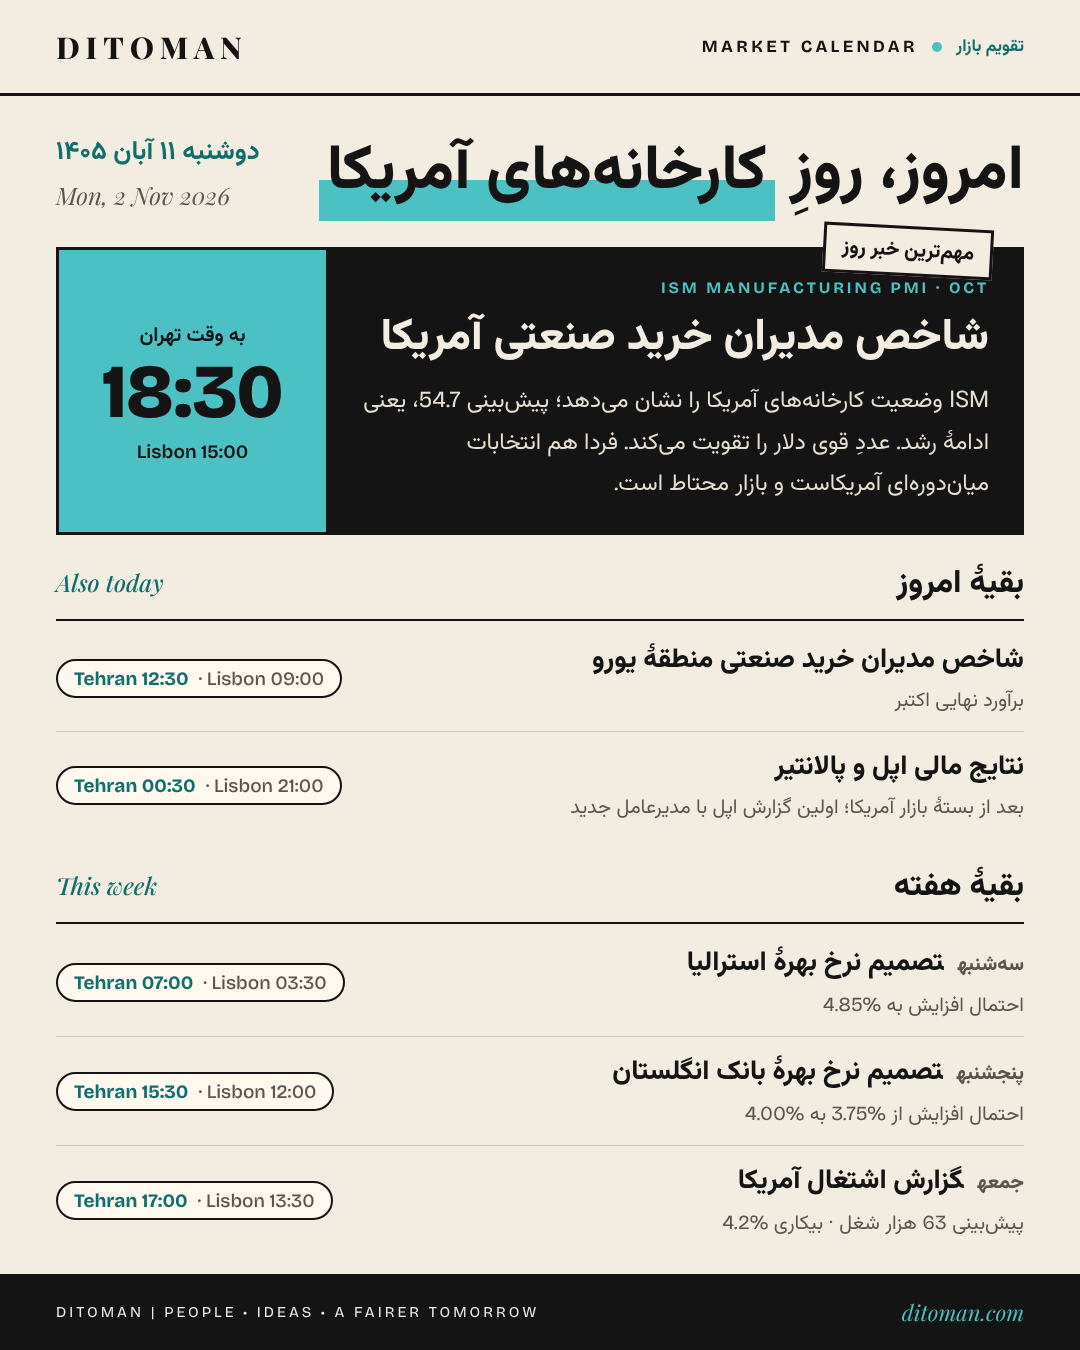
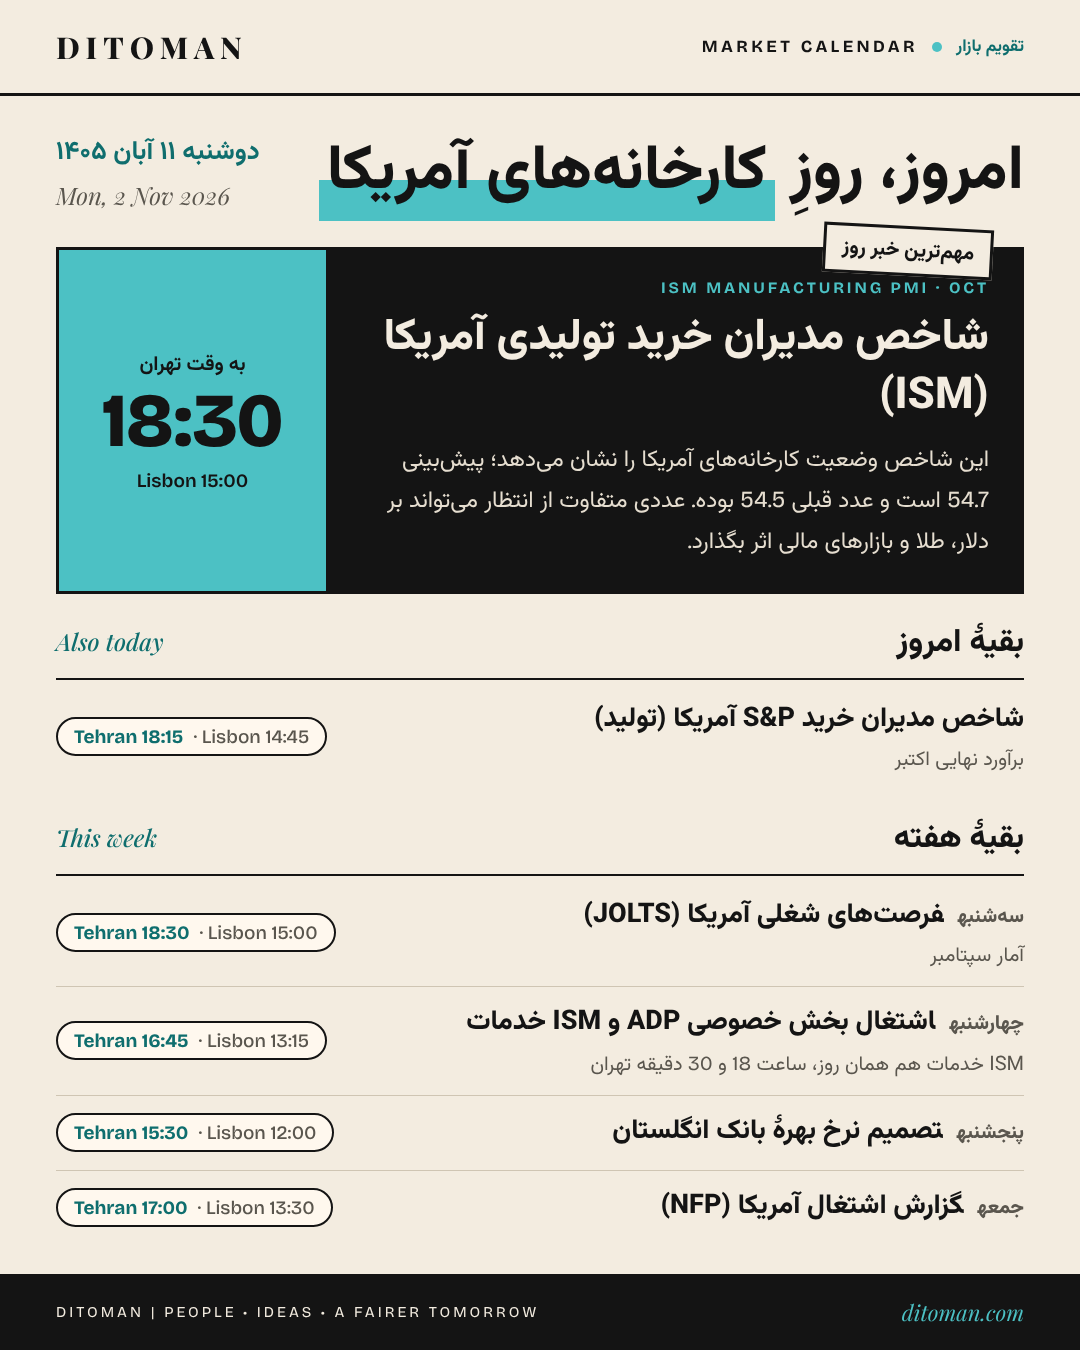
Calendar 2026-11-02: replace with the user's verified version (site only, already on Telegram) [skip ci]
Claude-Session: https://claude.ai/code/session_012uZ8Kke931QFdPKc2Y87z7

Changed region(s): [[0.0306, 0.2178, 0.9472, 0.9333], [0.5806, 0.5911, 0.6111, 0.6222]]

diff --git a/telegram/2026-11-02-01-calendar.md b/telegram/2026-11-02-01-calendar.md
@@ -1,21 +1,25 @@
 image: calendar/2026-11-02-post.png
-🗓 تقویم بازار | دوشنبه ۱۱ آبان ۱۴۰۵
+📅 تقویم اقتصادی | دوشنبه ۱۱ آبان ۱۴۰۵
+
+🌍 هفتهای مهم برای بازارهای جهانی آغاز شده است.
+انتشار شاخصهای تولید و خدمات آمریکا، آمار اشتغال و تصمیم بانک انگلستان درباره نرخ بهره، از مهمترین رویدادهای پیش رو هستند.
 
 🔴 مهمترین رویداد امروز
-شاخص مدیران خرید صنعتی آمریکا (ISM)
-⏰ تهران ۱۸:۳۰ | لیسبون ۱۵:۰۰
-این شاخص وضعیت کارخانههای آمریکا را نشان میدهد؛ بالای ۵۰ یعنی رشد. پیشبینی ۵۴٫۷ است. عددِ قویتر دلار را تقویت میکند و معمولاً به ضرر طلا و بیتکوین است. هفتهای حساس است: فردا انتخابات میاندورهای آمریکا برگزار میشود و بازار پیش از آن محتاط حرکت میکند.
 
-📌 بقیهٔ امروز
-• شاخص مدیران خرید صنعتی منطقهٔ یورو (برآورد نهایی اکتبر)، تهران ۱۲:۳۰
-• نتایج مالی اپل و پالانتیر، بعد از بستهٔ بازار آمریکا (حدود ۰۰:۳۰ بامداد تهران): اولین گزارش اپل با مدیرعامل جدید، جان ترنوس
+🇺🇸 شاخص مدیران خرید بخش تولید آمریکا (ISM)
+🕒 تهران ۱۸:۳۰ | لیسبون ۱۵:۰۰
 
-🗓 بقیهٔ هفته
-• سهشنبه، تهران ۰۷:۰۰: تصمیم نرخ بهرهٔ استرالیا (احتمال افزایش به ۴٫۸۵٪)
-• سهشنبه: انتخابات میاندورهای آمریکا، نتایج از بامداد چهارشنبه به وقت تهران
-• پنجشنبه، تهران ۱۵:۳۰: تصمیم نرخ بهرهٔ بانک انگلستان (احتمال افزایش از ۳٫۷۵٪ به ۴٫۰۰٪)
-• جمعه، تهران ۱۷:۰۰: گزارش اشتغال آمریکا (پیشبینی ۶۳ هزار شغل، بیکاری ۴٫۲٪)
+این شاخص وضعیت فعالیت کارخانههای آمریکا را نشان میدهد. انتشار عددی متفاوت از انتظار بازار میتواند بر دلار، طلا و بازارهای مالی تأثیر بگذارد.
 
-📊 آمار قیمتها: امشب ساعت ۲۰:۰۰ تهران
+📊 رویدادهای مهم هفته
 
-همهٔ روزها در سایت: https://ditoman.com/calendar.html
+📌 سهشنبه ۱۲ آبان: فرصتهای شغلی آمریکا (JOLTS)
+📌 چهارشنبه ۱۳ آبان: گزارش اشتغال بخش خصوصی ADP و شاخص خدمات ISM
+📌 پنجشنبه ۱۴ آبان: تصمیم نرخ بهره بانک انگلستان
+📌 جمعه ۱۵ آبان: گزارش اشتغال آمریکا (NFP)
+
+🔍 نگاه دیتومن
+
+تمرکز بازارها این هفته بر وضعیت اشتغال، رشد اقتصادی و مسیر نرخ بهره است. دادههای اقتصادی میتوانند انتظارات سرمایهگذاران درباره تصمیمات آینده بانکهای مرکزی را تغییر دهند و باعث نوسان در بازار ارز، طلا و رمزارزها شوند.
+
+🌐 ditoman.com/calendar.html
